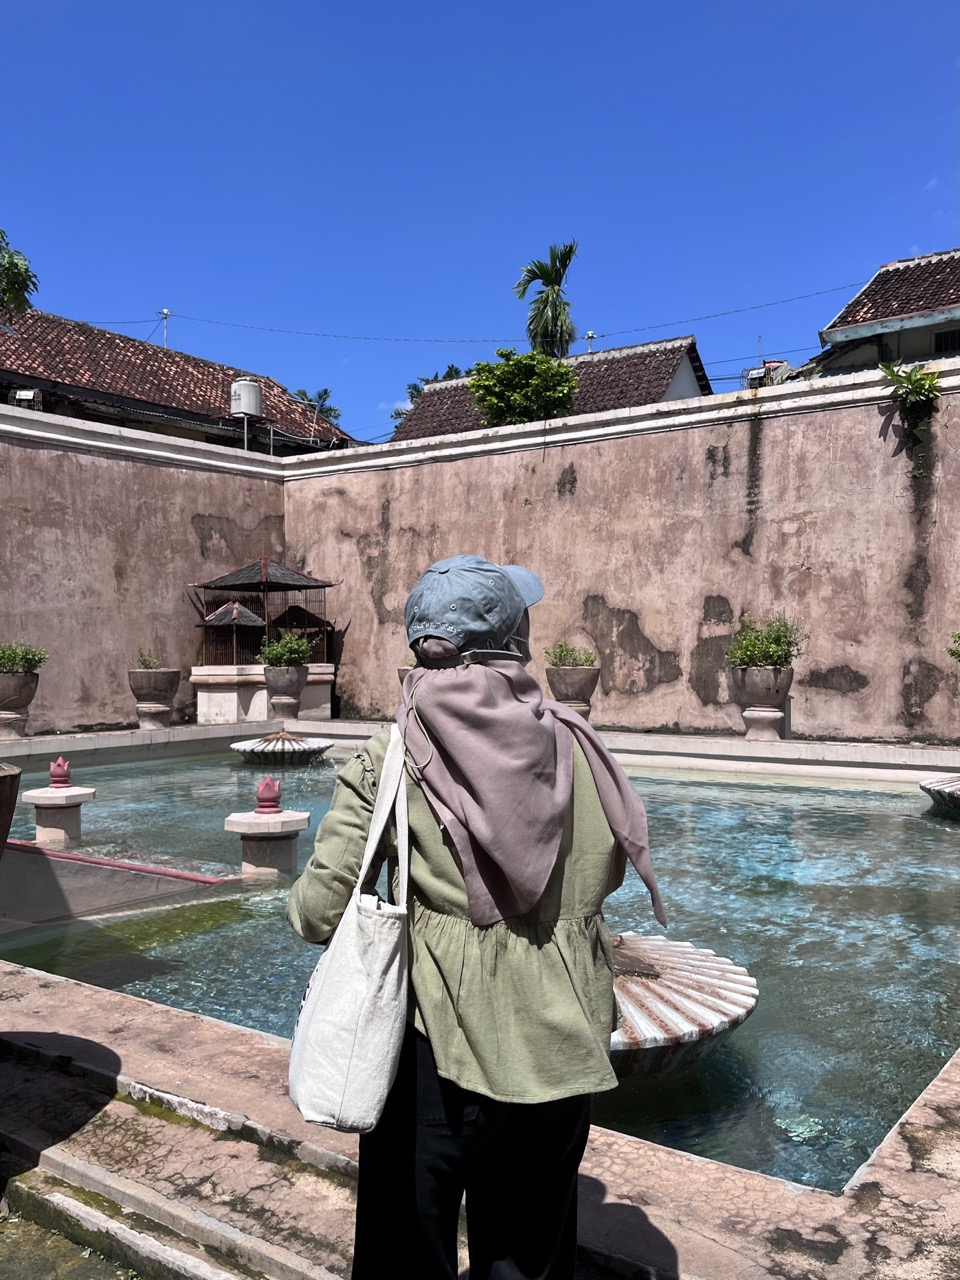
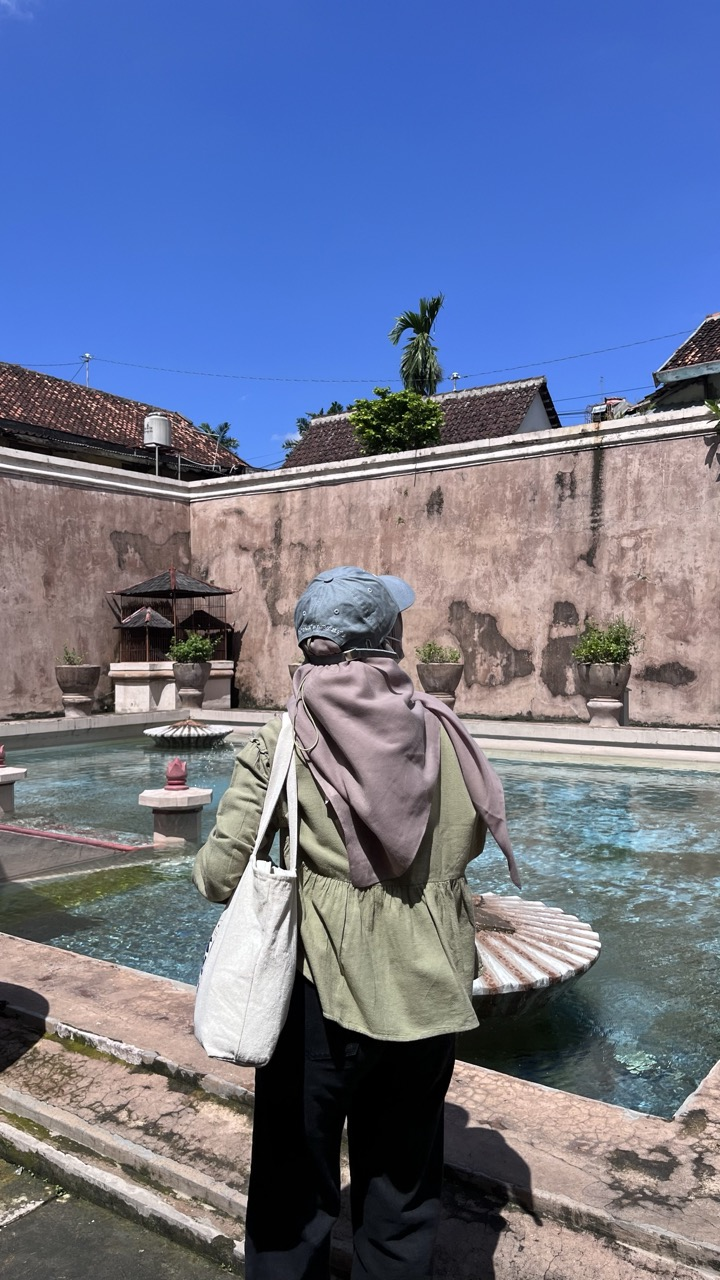
fix: fixing sizing photo gallery

diff --git a/src/components/Epilogue/Epilogue.tsx b/src/components/Epilogue/Epilogue.tsx
@@ -31,46 +31,46 @@ const Epilogue = () => {
       <div className="grid grid-cols-2 md:grid-cols-4 gap-4 mt-10">
           <div className="grid gap-4">
               <div>
-                  <img className="h-full object-cover max-w-full rounded-lg" src={SbyImage} alt="" />
+                  <img className="h-auto md:h-full object-cover max-w-full rounded-lg" src={SbyImage} alt="" />
+              </div>
+              <div className="h-full">
+                  <img className="h-auto md:h-full object-cover max-w-full rounded-lg" src={DateImage} alt="" />
               </div>
               <div>
-                  <img className="h-full object-cover max-w-full rounded-lg" src={DateImage} alt="" />
-              </div>
-              <div>
-                  <img className="h-full object-cover max-w-full rounded-lg" src={DateMultipleImage} alt="" />
-              </div>
-          </div>
-          <div className="grid gap-4">
-              <div>
-                  <img className="h-full object-cover max-w-full rounded-lg" src={MarugameImage} alt="" />
-              </div>
-              <div>
-                  <img className="h-full object-cover max-w-full rounded-lg" src={FirstMetImage} alt="" />
-              </div>
-              <div>
-                  <img className="h-full object-cover max-w-full rounded-lg" src={StudioImage} alt="" />
+                  <img className="h-auto md:h-full object-cover max-w-full rounded-lg" src={DateMultipleImage} alt="" />
               </div>
           </div>
           <div className="grid gap-4">
               <div>
-                  <img className="h-full object-cover max-w-full rounded-lg" src={TamansariImage} alt="" />
+                  <img className="h-auto md:h-full object-cover max-w-full rounded-lg" src={MarugameImage} alt="" />
               </div>
               <div>
-                  <img className="h-full object-cover max-w-full rounded-lg" src={BonbinImage} alt="" />
+                  <img className="h-auto md:h-full object-cover max-w-full rounded-lg" src={FirstMetImage} alt="" />
               </div>
               <div>
-                  <img className="h-full object-cover max-w-full rounded-lg" src={TamanImage} alt="" />
+                  <img className="h-auto md:h-full object-cover max-w-full rounded-lg" src={StudioImage} alt="" />
               </div>
           </div>
           <div className="grid gap-4">
               <div>
-                  <img className="h-full object-cover max-w-full rounded-lg" src={TimezoneImage} alt="" />
+                  <img className="h-auto md:h-full object-cover max-w-full rounded-lg" src={TamansariImage} alt="" />
               </div>
               <div>
-                  <img className="h-full object-cover max-w-full rounded-lg" src={KaliurangImage} alt="" />
+                  <img className="h-auto md:h-full object-cover max-w-full rounded-lg" src={BonbinImage} alt="" />
               </div>
               <div>
-                  <img className="h-full object-cover max-w-full rounded-lg" src={LastsImage} alt="" />
+                  <img className="h-auto md:h-full object-cover max-w-full rounded-lg" src={TamanImage} alt="" />
+              </div>
+          </div>
+          <div className="grid gap-4">
+              <div>
+                  <img className="h-auto md:h-full object-cover max-w-full rounded-lg" src={TimezoneImage} alt="" />
+              </div>
+              <div>
+                  <img className="h-auto md:h-full object-cover max-w-full rounded-lg" src={KaliurangImage} alt="" />
+              </div>
+              <div>
+                  <img className="h-auto md:h-full object-cover max-w-full rounded-lg" src={LastsImage} alt="" />
               </div>
           </div>
       </div>
